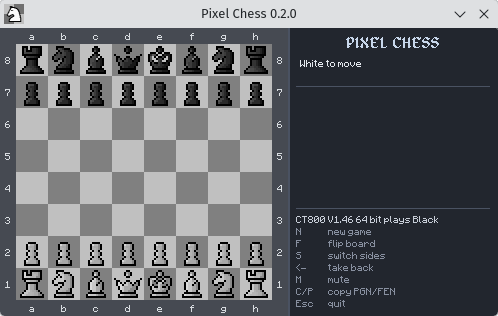
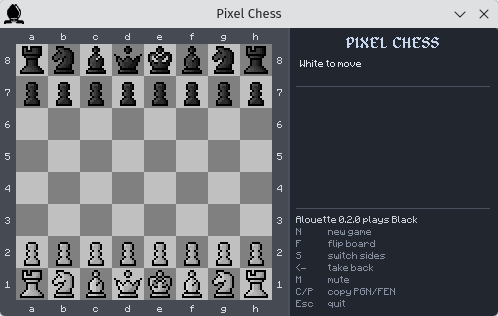
Update README

Changed region(s): [[0.6024, 0.6835, 0.8735, 0.712], [0.3916, 0.0285, 0.6024, 0.057], [0.0, 0.0, 0.0602, 0.0854]]

diff --git a/README.md b/README.md
@@ -2,7 +2,7 @@
 
 A pixel-art chess game written in Free Pascal with SDL3. Play against a friend on the same computer, or against a UCI chess engine.
 
-![Screenshot](screenshots/020-lanea.png)
+![Screenshot](screenshots/020-lucas.png)
 
 ## Features
 
